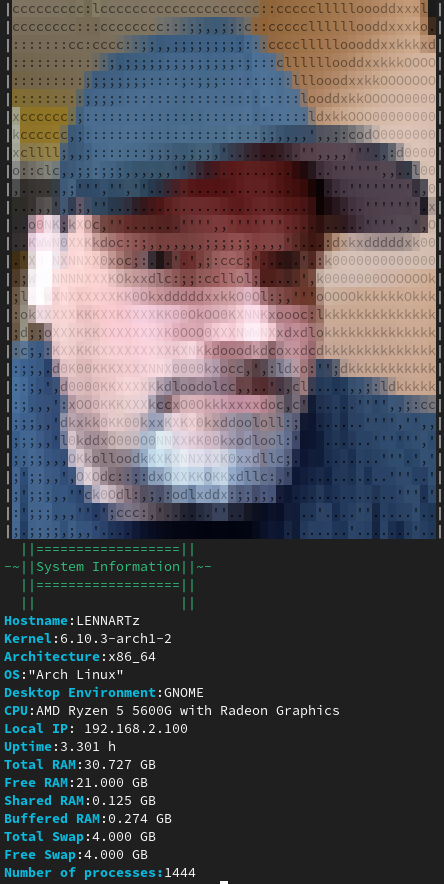
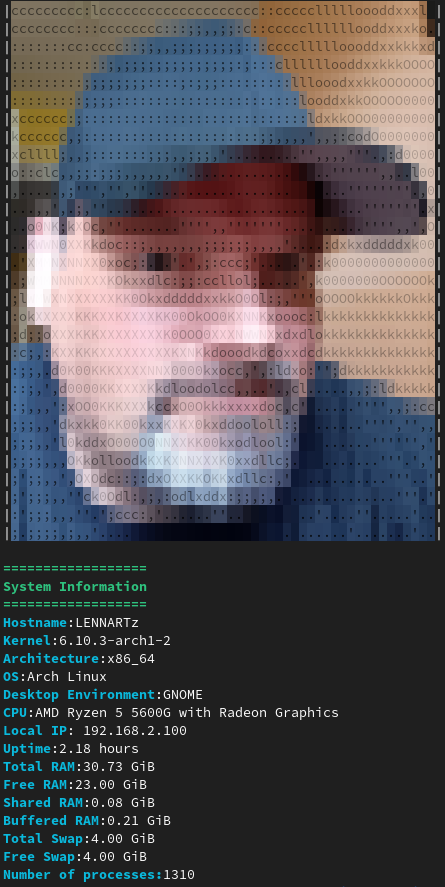
Update
It looks better now ;-)

diff --git a/main.c b/main.c
@@ -11,10 +11,12 @@
 #include <arpa/inet.h>
 #include "selfie.c"
 
-#define KB 1024
-#define MB (KB * KB)
-#define GB (MB * KB)
-#define HOUR (60 * 60)
+#define KB      1024
+#define MB      (KB * KB)
+#define GB      (MB * KB)
+#define MINUTE  60
+#define HOUR    (MINUTE * MINUTE)
+#define DAY     (HOUR * 24)
 #define BLUE    "\x1b[34m"
 #define RESET   "\x1b[0m"
 #define RED     "\x1b[31m"
@@ -46,9 +48,17 @@ void printSystemInfo() {
     FILE *osRelease = fopen("/etc/os-release", "r");
     if (osRelease != NULL) {
         char line[256];
+        char c;
         while (fgets(line, sizeof(line), osRelease)) {
             if (strncmp(line, "PRETTY_NAME=", 12) == 0) {
-                printf(BOLD CYAN "OS" RESET ":%s", line + 12); // Skip "PRETTY_NAME="
+                for(int i = 12; i < sizeof(line); i++) // Remove the quotes
+                {
+                    if(line[i] == '"')
+                    {
+                        line[i] = ' ';
+                    }
+                }
+                printf(BOLD CYAN "OS" RESET ":%s", line + 13); // Skip "PRETTY_NAME="
                 break;
             }
         }
@@ -58,13 +68,13 @@ void printSystemInfo() {
     }
 
     // Desktop Environment
-    char *desktopEnv = getenv("XDG_CURRENT_DESKTOP");
+    char *desktopEnv = getenv("XDG_CURRENT_DESKTOP"); 
     if (desktopEnv != NULL) {
         printf(BOLD CYAN "Desktop Environment" RESET ":%s\n", desktopEnv);
     } else {
         printf(BOLD CYAN "Desktop Environment" RESET ":Unknown\n");
     }
-
+    
     // CPU
     FILE *cpuInfo = fopen("/proc/cpuinfo", "r");
     if (cpuInfo != NULL) {
@@ -97,33 +107,59 @@ void printSystemInfo() {
     }
 }
 
+char* get_uptime(long uptime_seconds)
+{
+    char* uptime_str = malloc(100);
+    uptime_str == NULL ? NULL : 0;
+    
+    if (uptime_seconds > DAY)
+    {
+        sprintf(uptime_str, "%.2f days", (double)uptime_seconds / DAY);
+    }
+    else if (uptime_seconds > HOUR)
+    {
+        sprintf(uptime_str, "%.2f hours", (double)uptime_seconds / HOUR);
+    }
+    else if (uptime_seconds > MINUTE)
+    {
+        sprintf(uptime_str, "%.2f minutes", (double)uptime_seconds / MINUTE);
+    }
+    else
+    {
+        sprintf(uptime_str, "%ld s", uptime_seconds);
+    }
+    
+    return uptime_str;
+}
 
 int main() {
-    printf(ansi_pic);
     struct sysinfo info;
-    printf(GREEN);
-    printf("  ||==================||\n");
-    printf("-~||System Information||~-\n");
-    printf("  ||==================||\n");
-    printf("  ||                  ||\n");
+
+    printf(ansi_pic);
+
+    printf(BOLD GREEN"\n");
+    printf("==================\n");
+    printf("System Information\n");
+    printf("==================\n");
+
     printf(RESET);
+
     printSystemInfo();
 
+    (sysinfo(&info) != 0) ? (perror("sysinfo"), 1) : 0;
+    
+    char *uptime = get_uptime(info.uptime);
 
-    if (sysinfo(&info) == 0) {
-        printf(BOLD);
-        printf(BOLD CYAN "Uptime"RESET":%-.3f h\n", (double)info.uptime / HOUR);
-        printf(BOLD CYAN "Total RAM"RESET":%-.3f GB\n", (double)info.totalram / GB);
-        printf(BOLD CYAN "Free RAM"RESET":%-.3f GB\n", (double)(info.freeram / GB));
-        printf(BOLD CYAN "Shared RAM"RESET":%-.3f GB\n", (double)info.sharedram / GB);
-        printf(BOLD CYAN "Buffered RAM"RESET":%-.3f GB\n", (double)info.bufferram / GB);
-        printf(BOLD CYAN "Total Swap"RESET":%-.3f GB\n", (double)info.totalswap / GB);
-        printf(BOLD CYAN "Free Swap"RESET":%-.3f GB\n", (double)info.freeswap / GB);
-        printf(BOLD CYAN "Number of processes:"RESET"%d\n", info.procs);
-    } else {
-        perror("sysinfo");
-    }
-    printf(RESET);
+    printf(BOLD CYAN "Uptime"RESET":%s\n", uptime);
+    printf(BOLD CYAN "Total RAM"RESET":%.2f GiB\n", (double)info.totalram / GB);
+    printf(BOLD CYAN "Free RAM"RESET":%.2f GiB\n", (double)(info.freeram / GB));
+    printf(BOLD CYAN "Shared RAM"RESET":%.2f GiB\n", (double)info.sharedram / GB);
+    printf(BOLD CYAN "Buffered RAM"RESET":%.2f GiB\n", (double)info.bufferram / GB);
+    printf(BOLD CYAN "Total Swap"RESET":%.2f GiB\n", (double)info.totalswap / GB);
+    printf(BOLD CYAN "Free Swap"RESET":%.2f GiB\n", (double)info.freeswap / GB);
+    printf(BOLD CYAN "Number of processes:"RESET"%d\n", info.procs);    
+
+    free(uptime);
 
     return 0;
 }
